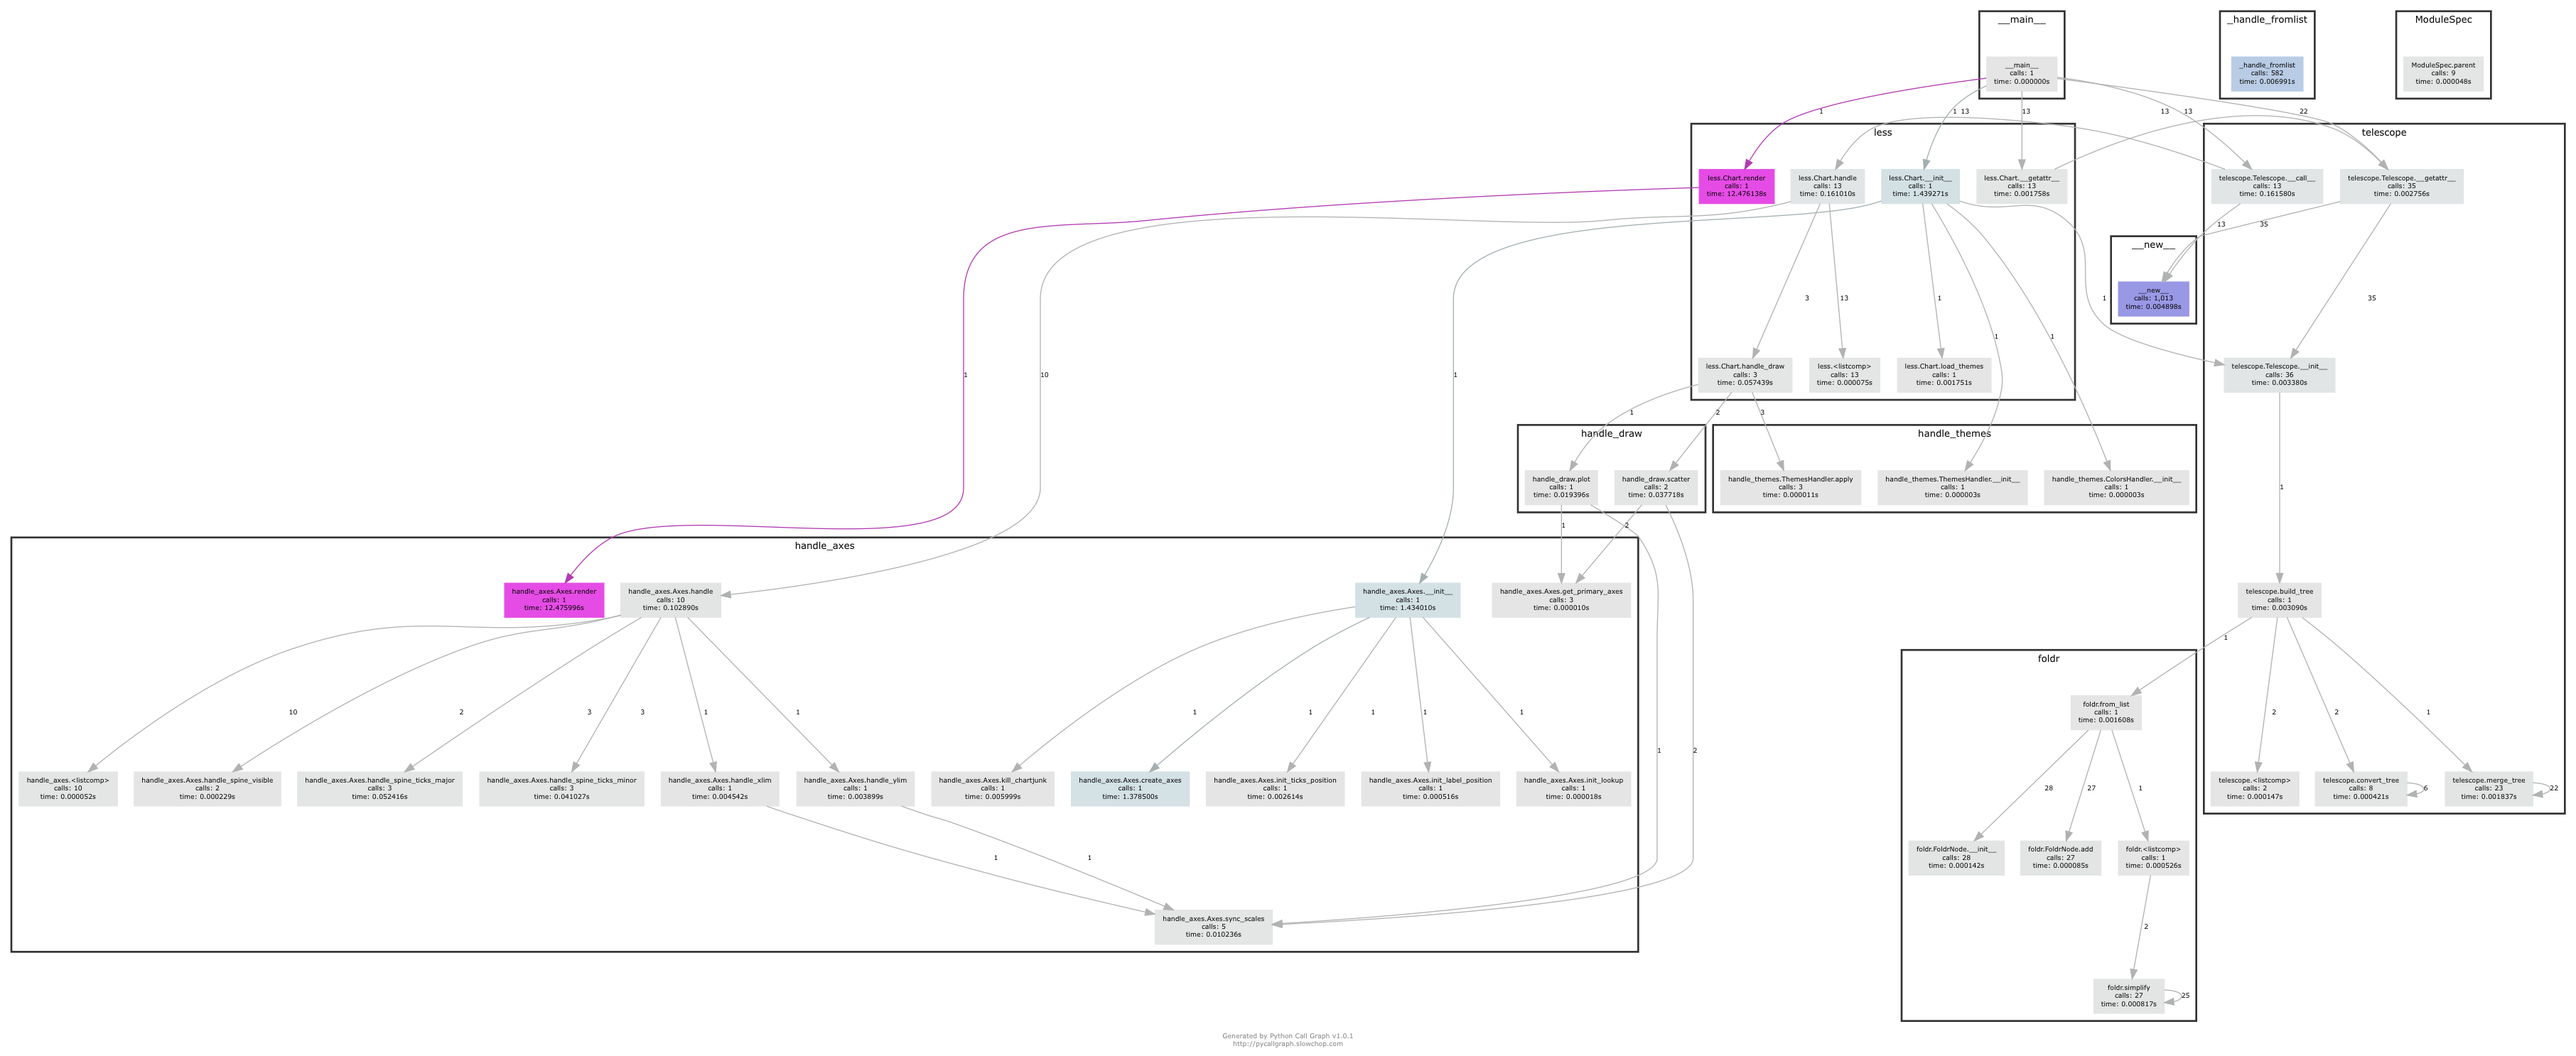
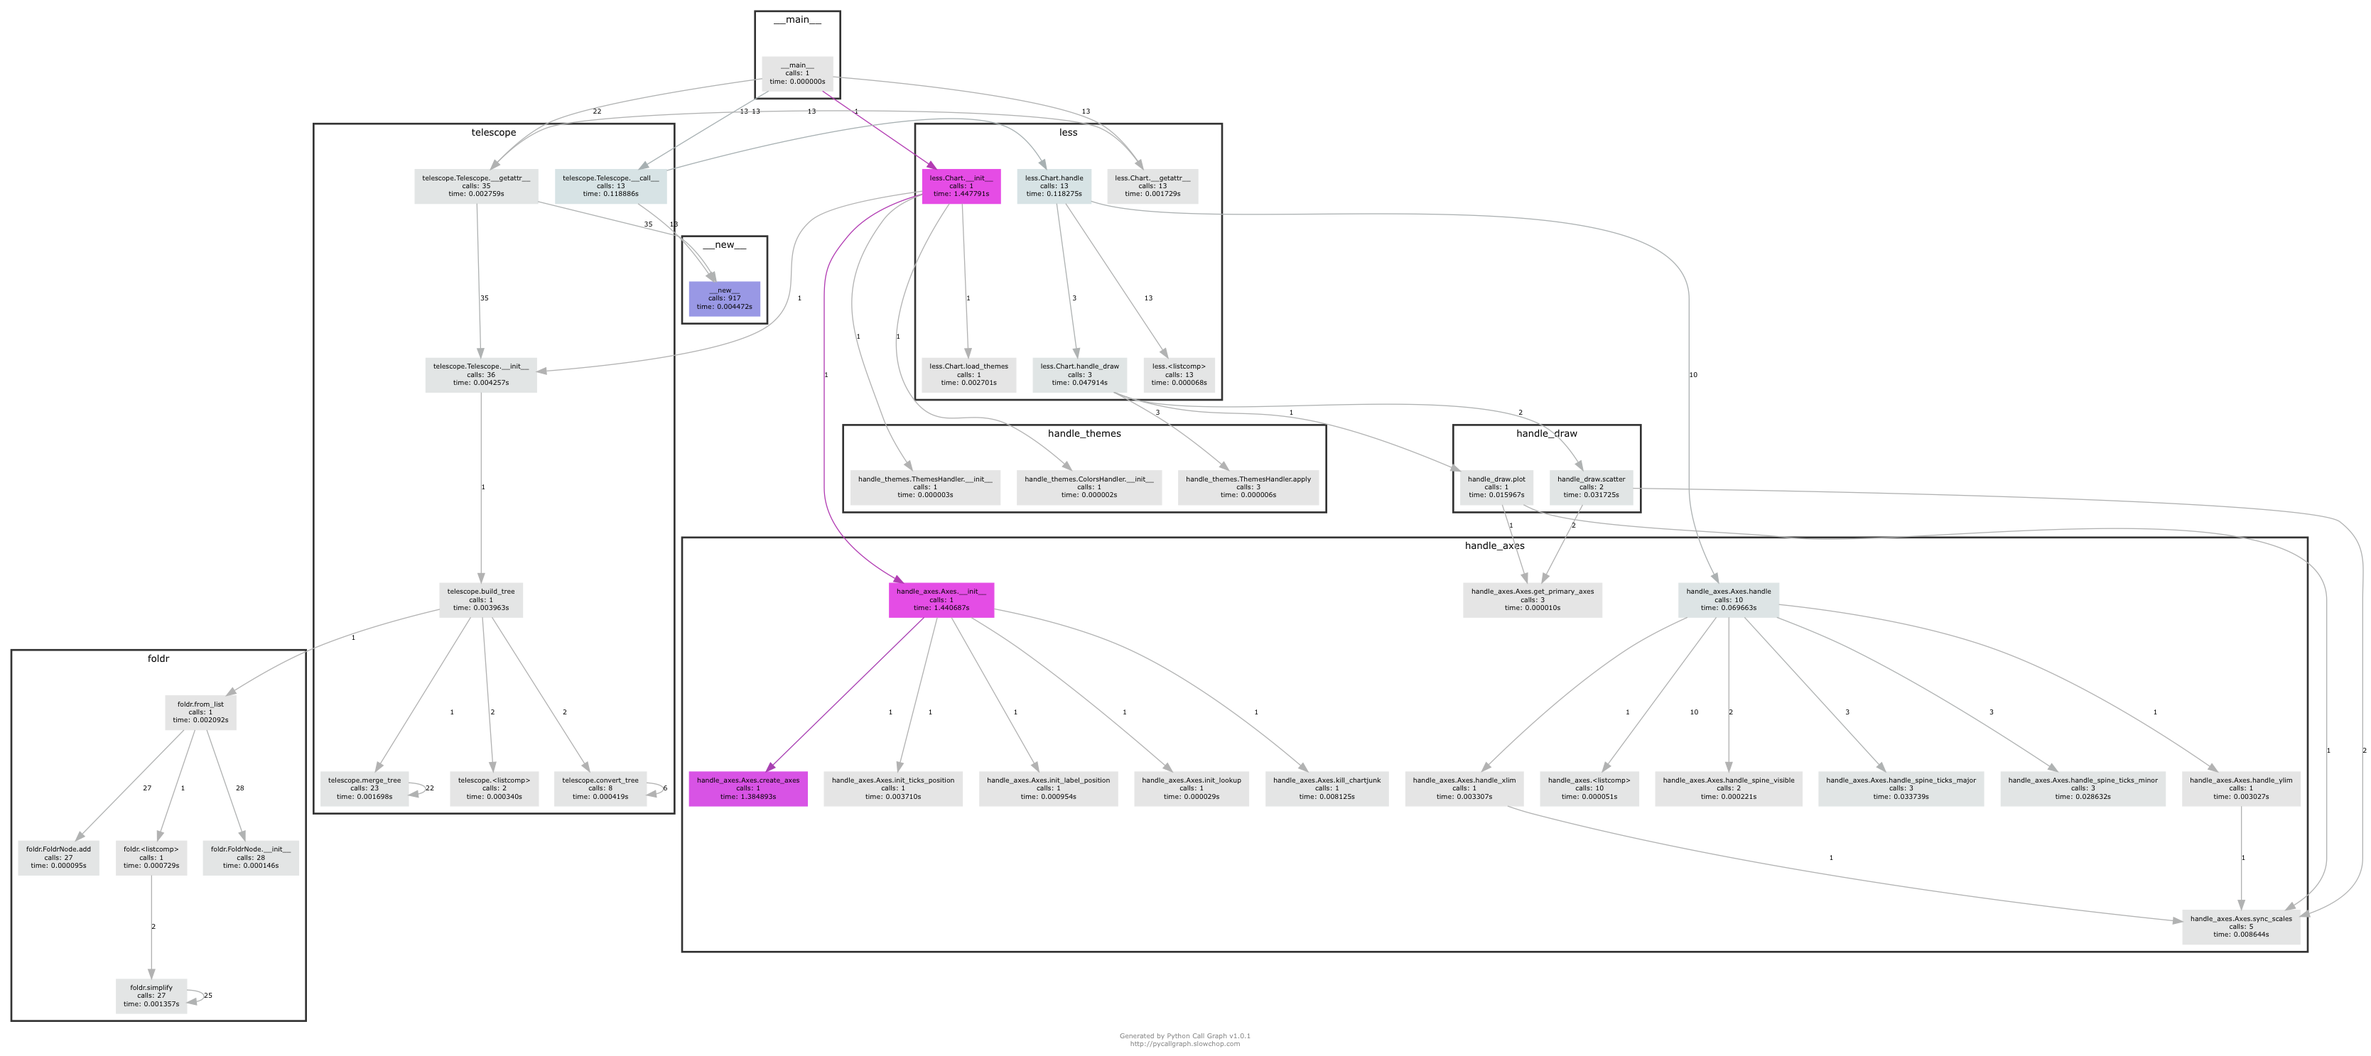
Tweaking drawing functions

diff --git a/handle_draw.py b/handle_draw.py
@@ -1,6 +1,18 @@
 import numpy as np
 import handle_elements as elements
 
+# plt.hexbin
+# plt.hist
+# plt.hist2d
+# plt.imshow   # for heatmaps
+# plt.stem
+# plt.step
+# plt.hex
+# plt.stream
+# plt.table
+# plt.violin
+
+# plt.xscale / plt.yscale
 
 
 
@@ -12,6 +24,10 @@ import handle_elements as elements
 
 
 def plot(ax, *args, **kwargs):
+    # add ability for loglog, semilogy, semilogx via kwargs
+    # handle dates via kwargs? (matplotlib.pyplot.plot_date)
+
+
     # require x and y as kwargs
     #assert len(args) == 0
 
@@ -25,6 +41,10 @@ def plot(ax, *args, **kwargs):
     x = kwargs.pop('x', None)
     y = kwargs.pop('y', None)
 
+    if isinstance(x, list):
+        x = np.array(x)
+    if isinstance(y, list):
+        y = np.array(y)
 
     line = ax.get_primary_axes().plot(x, y, **kwargs)
     ax.sync_scales()
@@ -36,69 +56,85 @@ def plot(ax, *args, **kwargs):
 
 def scatter(ax, *args, **kwargs):
     #style = kwargs.get('style', 'background')
-    kwargs.pop('style')
+    kwargs.pop('style', None)
 
     #theme = self.parent.get_current_theme(style, 'scatter')
 
     x = kwargs.pop('x', None)
     y = kwargs.pop('y', None)
 
+    if isinstance(x, list):
+        x = np.array(x)
+    if isinstance(y, list):
+        y = np.array(y)
+
     ax.get_primary_axes().scatter(x, y, **kwargs)
     ax.sync_scales()
 
 def jitter(ax, *args, **kwargs):
-    x_width = kwargs.pop('x_width', None)
-    y_width = kwargs.pop('y_width', None)
+    x_width = kwargs.pop('x_width', 0)
+    y_width = kwargs.pop('y_width', 0)
 
-    x = kwargs.pop('x')
-    y = kwargs.pop('y')
+    x = kwargs['x']
+    y = kwargs['y']
 
-    if x_width:
-        x_ = x + np.random.random(x.shape)*x_width - (x_width/2)
-    else:
-        x_ = x
+    if isinstance(x, list):
+        x = np.array(x)
+    if isinstance(y, list):
+        y = np.array(y)
 
-    if y_width:
-        y_ = y + np.random.random(y.shape)*y_width - (y_width/2)
-    else:
-        y_ = y
+    x_jitter = np.random.random(x.shape)*x_width - (x_width/2)
+    y_jitter = np.random.random(y.shape)*y_width - (y_width/2)
 
-    self.scatter(x_, y_, **kwargs)
+    kwargs['x'] = x + x_jitter
+    kwargs['y'] = y + y_jitter
+
+    scatter(ax, *args, **kwargs)
 
 def vbar(ax, *args, **kwargs):
     x = kwargs.pop('x')
     y = kwargs.pop('y')
 
-    if any(map(lambda x: type(x) == str, x)):
-        x = list(range(len(x)))
+    if isinstance(x, list):
+        x = np.array(x)
+    if isinstance(y, list):
+        y = np.array(y)
 
-    name = kwargs.pop('name', None)
+    #if any(map(lambda x: type(x) == str, x)):
+    #    x = list(range(len(x)))
 
-    bar = self.get_axes().bar(x, y, **kwargs)
-    self.sync_scales()
+    #name = kwargs.pop('name', None)
 
-    if name:
-        if name not in self.parent.stored.keys():
-            self.parent.stored[name] = elements.Iterator()
-        self.parent.stored[name].add(elements.VerticalBarChartObject(bar))
+    bar = ax.get_primary_axes().bar(x, y, **kwargs)
+    ax.sync_scales()
+
+    #if name:
+    #    if name not in self.parent.stored.keys():
+    #        self.parent.stored[name] = elements.Iterator()
+    #    self.parent.stored[name].add(elements.VerticalBarChartObject(bar))
 
 def hbar(ax, *args, **kwargs):
     y = kwargs.pop('y')
     x = kwargs.pop('x')
 
-    if True: #any(map(lambda x: type(x) == str, x)):
-        y = list(range(len(y)))
+    if isinstance(x, list):
+        x = np.array(x)
+    if isinstance(y, list):
+        y = np.array(y)
 
-    name = kwargs.pop('name', None)
+    if any(map(lambda i: isinstance(i, str), x)):
+        y = list(reversed(range(len(y))))
 
-    bar = self.get_axes().barh(y, x, **kwargs)
+    #name = kwargs.pop('name', None)
 
-    ymin, ymax = self.get_axes().get_ylim()
-    self.get_axes().set_ylim(ymax, ymin)
+    bar = ax.get_primary_axes().barh(y, x, **kwargs)
 
-    self.sync_scales()
+    #ymin, ymax = self.get_axes().get_ylim()
+    #self.get_axes().set_ylim(ymax, ymin)
 
-    if name:
-        if name not in self.parent.stored.keys():
-            self.parent.stored[name] = elements.Iterator()
-        self.parent.stored[name].add(elements.HorizontalBarChartObject(bar))
+    ax.sync_scales()
+
+    #if name:
+    #    if name not in self.parent.stored.keys():
+    #        self.parent.stored[name] = elements.Iterator()
+    #    self.parent.stored[name].add(elements.HorizontalBarChartObject(bar))

diff --git a/pycallgraph_test.py b/pycallgraph_test.py
@@ -62,4 +62,4 @@ with PyCallGraph(output=GraphvizOutput(), config=config):
     chart.ylim(-1.25,1.25)
 
     # similar to plt.show()
-    chart.render()
+    #chart.render()

diff --git a/handle_axes.py b/handle_axes.py
@@ -1,5 +1,5 @@
 import matplotlib.pyplot as plt
-import handle_draw as draw
+
 
 class Axes(object):
     def __init__(self, x, y, parent):
